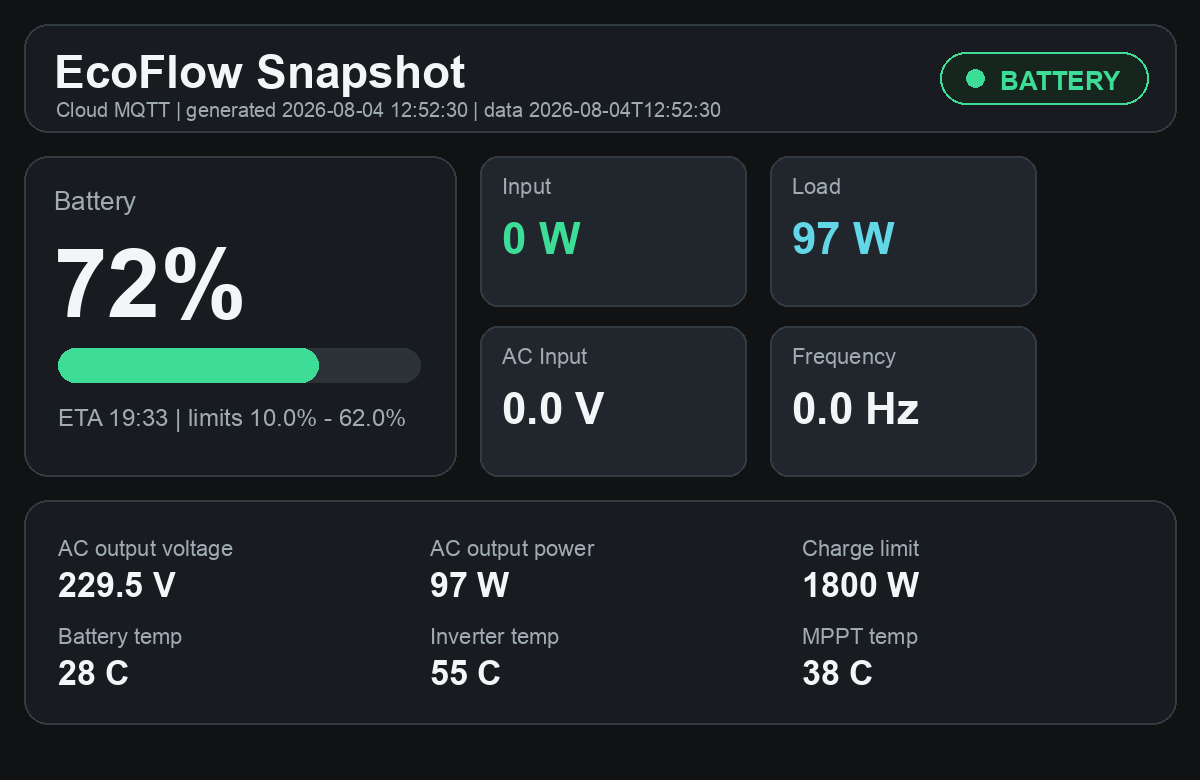
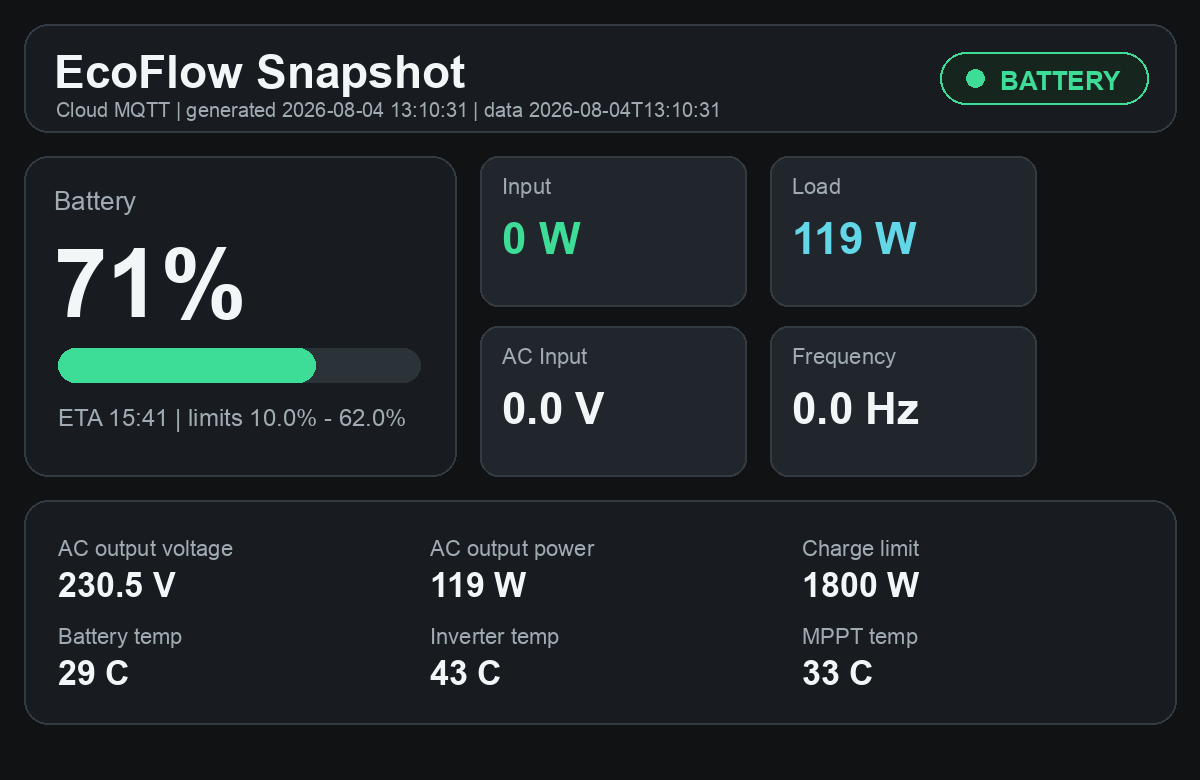
Update EcoFlow dashboard 2026-08-04 13:10:31

diff --git a/index.html b/index.html
@@ -75,7 +75,7 @@
       overflow: hidden;
       margin-top: 14px;
     }
-    .fill { width: 72%; height: 100%; background: linear-gradient(90deg, var(--green), var(--cyan)); }
+    .fill { width: 71%; height: 100%; background: linear-gradient(90deg, var(--green), var(--cyan)); }
     .cards {
       display: grid;
       grid-template-columns: repeat(4, minmax(0, 1fr));
@@ -177,7 +177,7 @@
   <header>
     <div>
       <h1>EcoFlow Snapshot</h1>
-      <div class="sub">Cloud MQTT · generated 2026-08-04T12:52:30 · data 2026-08-04T12:52:30</div>
+      <div class="sub">Cloud MQTT · generated 2026-08-04T13:10:31 · data 2026-08-04T13:10:31</div>
     </div>
     <div class="status online"><span class="dot"></span><span>Battery</span></div>
   </header>
@@ -187,24 +187,24 @@
   <div class="grid">
     <section>
       <h2>Battery</h2>
-      <div class="value">72%</div>
+      <div class="value">71%</div>
       <div class="battery"><div class="fill"></div></div>
-      <div class="row"><span>ETA</span><span>19:33</span></div>
+      <div class="row"><span>ETA</span><span>15:41</span></div>
       <div class="row"><span>SOC limits</span><span>10.0% - 62.0%</span></div>
     </section>
     <section>
       <h2>AC</h2>
       <div class="row"><span>Input voltage</span><span>0.0 V</span></div>
       <div class="row"><span>Input frequency</span><span>0.0 Hz</span></div>
-      <div class="row"><span>Output voltage</span><span>229.5 V</span></div>
+      <div class="row"><span>Output voltage</span><span>230.5 V</span></div>
     </section>
   </div>
 
   <div class="cards">
     <div class="card"><span class="label">Input</span><span class="value">0 W</span></div>
-    <div class="card"><span class="label">Load</span><span class="value">97 W</span></div>
-    <div class="card"><span class="label">Battery temp</span><span class="value">28°C</span></div>
-    <div class="card"><span class="label">Inverter temp</span><span class="value">55°C</span></div>
+    <div class="card"><span class="label">Load</span><span class="value">119 W</span></div>
+    <div class="card"><span class="label">Battery temp</span><span class="value">29°C</span></div>
+    <div class="card"><span class="label">Inverter temp</span><span class="value">43°C</span></div>
   </div>
 
   
@@ -212,12 +212,12 @@
       <h2>Останні 24 години</h2>
       <div class="daily-grid">
         <div class="daily-item"><span class="label">Напруга min / max</span><strong>-- V / -- V</strong><small>-- / --</small></div>
-        <div class="daily-item"><span class="label">SOC min / max</span><strong>72% / 73%</strong><small>04.08 12:52 / 03.08 13:31</small></div>
+        <div class="daily-item"><span class="label">SOC min / max</span><strong>71% / 73%</strong><small>04.08 13:10 / 03.08 13:31</small></div>
         <div class="daily-item"><span class="label">Пік навантаження</span><strong>132 W</strong><small>04.08 12:38</small></div>
         <div class="daily-item"><span class="label">Зарядний ліміт</span><strong>1800 W</strong><small>пік входу 0 W · 0% ліміту</small></div>
         <div class="daily-item"><span class="label">Заряджання</span><strong>0 сек</strong><small>--</small></div>
-        <div class="daily-item"><span class="label">Розряджання</span><strong>7 хв</strong><small>останнє 04.08 12:52</small></div>
-        <div class="daily-item"><span class="label">Енергія вхід / вихід</span><strong>0 Wh / 12 Wh</strong><small>оцінка за sample-ами</small></div>
+        <div class="daily-item"><span class="label">Розряджання</span><strong>10 хв</strong><small>останнє 04.08 13:10</small></div>
+        <div class="daily-item"><span class="label">Енергія вхід / вихід</span><strong>0 Wh / 17 Wh</strong><small>оцінка за sample-ами</small></div>
         <div class="daily-item"><span class="label">Частота min / max</span><strong>-- Hz / -- Hz</strong><small>-- / --</small></div>
       </div>
     </section>
@@ -238,29 +238,29 @@
   &quot;ok&quot;: true,
   &quot;source&quot;: &quot;Cloud MQTT&quot;,
   &quot;device&quot;: &quot;DELTA Pro&quot;,
-  &quot;timestamp&quot;: &quot;2026-08-04T12:52:30&quot;,
+  &quot;timestamp&quot;: &quot;2026-08-04T13:10:31&quot;,
   &quot;grid&quot;: false,
   &quot;battery&quot;: {
-    &quot;soc&quot;: 72,
+    &quot;soc&quot;: 71,
     &quot;min&quot;: 10.0,
     &quot;max&quot;: 62.0,
-    &quot;eta&quot;: &quot;19:33&quot;
+    &quot;eta&quot;: &quot;15:41&quot;
   },
   &quot;power&quot;: {
     &quot;in&quot;: 0,
-    &quot;out&quot;: 97,
-    &quot;acOut&quot;: 97,
+    &quot;out&quot;: 119,
+    &quot;acOut&quot;: 119,
     &quot;chargeLimit&quot;: 1800
   },
   &quot;ac&quot;: {
     &quot;inputVoltage&quot;: 0.0,
     &quot;inputFreq&quot;: 0.0,
-    &quot;outputVoltage&quot;: 229.529
+    &quot;outputVoltage&quot;: 230.549
   },
   &quot;temps&quot;: {
-    &quot;battery&quot;: 28,
-    &quot;inverter&quot;: 55,
-    &quot;mppt&quot;: 38
+    &quot;battery&quot;: 29,
+    &quot;inverter&quot;: 43,
+    &quot;mppt&quot;: 33
   },
   &quot;history&quot;: [
     {
@@ -275,16 +275,16 @@
   ],
   &quot;telemetry&quot;: {
     &quot;window&quot;: &quot;24h&quot;,
-    &quot;sample_count&quot;: 160,
+    &quot;sample_count&quot;: 161,
     &quot;from&quot;: &quot;2026-08-03T13:31:13&quot;,
-    &quot;to&quot;: &quot;2026-08-04T12:52:30&quot;,
+    &quot;to&quot;: &quot;2026-08-04T13:10:31&quot;,
     &quot;latest&quot;: {
       &quot;mode&quot;: &quot;discharging&quot;,
       &quot;grid&quot;: false,
-      &quot;soc&quot;: 72.0,
+      &quot;soc&quot;: 71.0,
       &quot;ac_v&quot;: 0.0,
       &quot;in_w&quot;: 0.0,
-      &quot;out_w&quot;: 97.0,
+      &quot;out_w&quot;: 119.0,
       &quot;charge_limit_w&quot;: 1800.0
     },
     &quot;voltage&quot;: {
@@ -295,8 +295,8 @@
     },
     &quot;soc&quot;: {
       &quot;min&quot;: {
-        &quot;value&quot;: 72.0,
-        &quot;ts&quot;: &quot;2026-08-04T12:52:30&quot;
+        &quot;value&quot;: 71.0,
+        &quot;ts&quot;: &quot;2026-08-04T13:10:31&quot;
       },
       &quot;max&quot;: {
         &quot;value&quot;: 73.0,
@@ -319,28 +319,28 @@
       &quot;charge_limit_w&quot;: 1800.0,
       &quot;max_input_pct_of_current_limit&quot;: 0,
       &quot;input_wh_est&quot;: 0.0,
-      &quot;load_wh_est&quot;: 12.0
+      &quot;load_wh_est&quot;: 16.8
     },
     &quot;modes&quot;: {
       &quot;charging_sec&quot;: 0,
-      &quot;discharging_sec&quot;: 424,
+      &quot;discharging_sec&quot;: 604,
       &quot;idle_sec&quot;: 12624,
       &quot;charging&quot;: &quot;0 сек&quot;,
-      &quot;discharging&quot;: &quot;7 хв&quot;,
+      &quot;discharging&quot;: &quot;10 хв&quot;,
       &quot;idle&quot;: &quot;3 год 30 хв&quot;,
       &quot;last_charging&quot;: null,
       &quot;last_discharging&quot;: {
-        &quot;ts&quot;: &quot;2026-08-04T12:52:30&quot;,
+        &quot;ts&quot;: &quot;2026-08-04T13:10:31&quot;,
         &quot;grid&quot;: false,
         &quot;ac_v&quot;: 0.0,
         &quot;ac_f&quot;: 0.0,
         &quot;in_w&quot;: 0.0,
-        &quot;out_w&quot;: 97.0,
-        &quot;ac_out_w&quot;: 97.0,
-        &quot;soc&quot;: 72.0,
+        &quot;out_w&quot;: 119.0,
+        &quot;ac_out_w&quot;: 119.0,
+        &quot;soc&quot;: 71.0,
         &quot;charge_limit_w&quot;: 1800.0,
-        &quot;net_w&quot;: -97.0,
-        &quot;epoch&quot;: 1785837150.0,
+        &quot;net_w&quot;: -119.0,
+        &quot;epoch&quot;: 1785838231.0,
         &quot;mode&quot;: &quot;discharging&quot;
       }
     }
